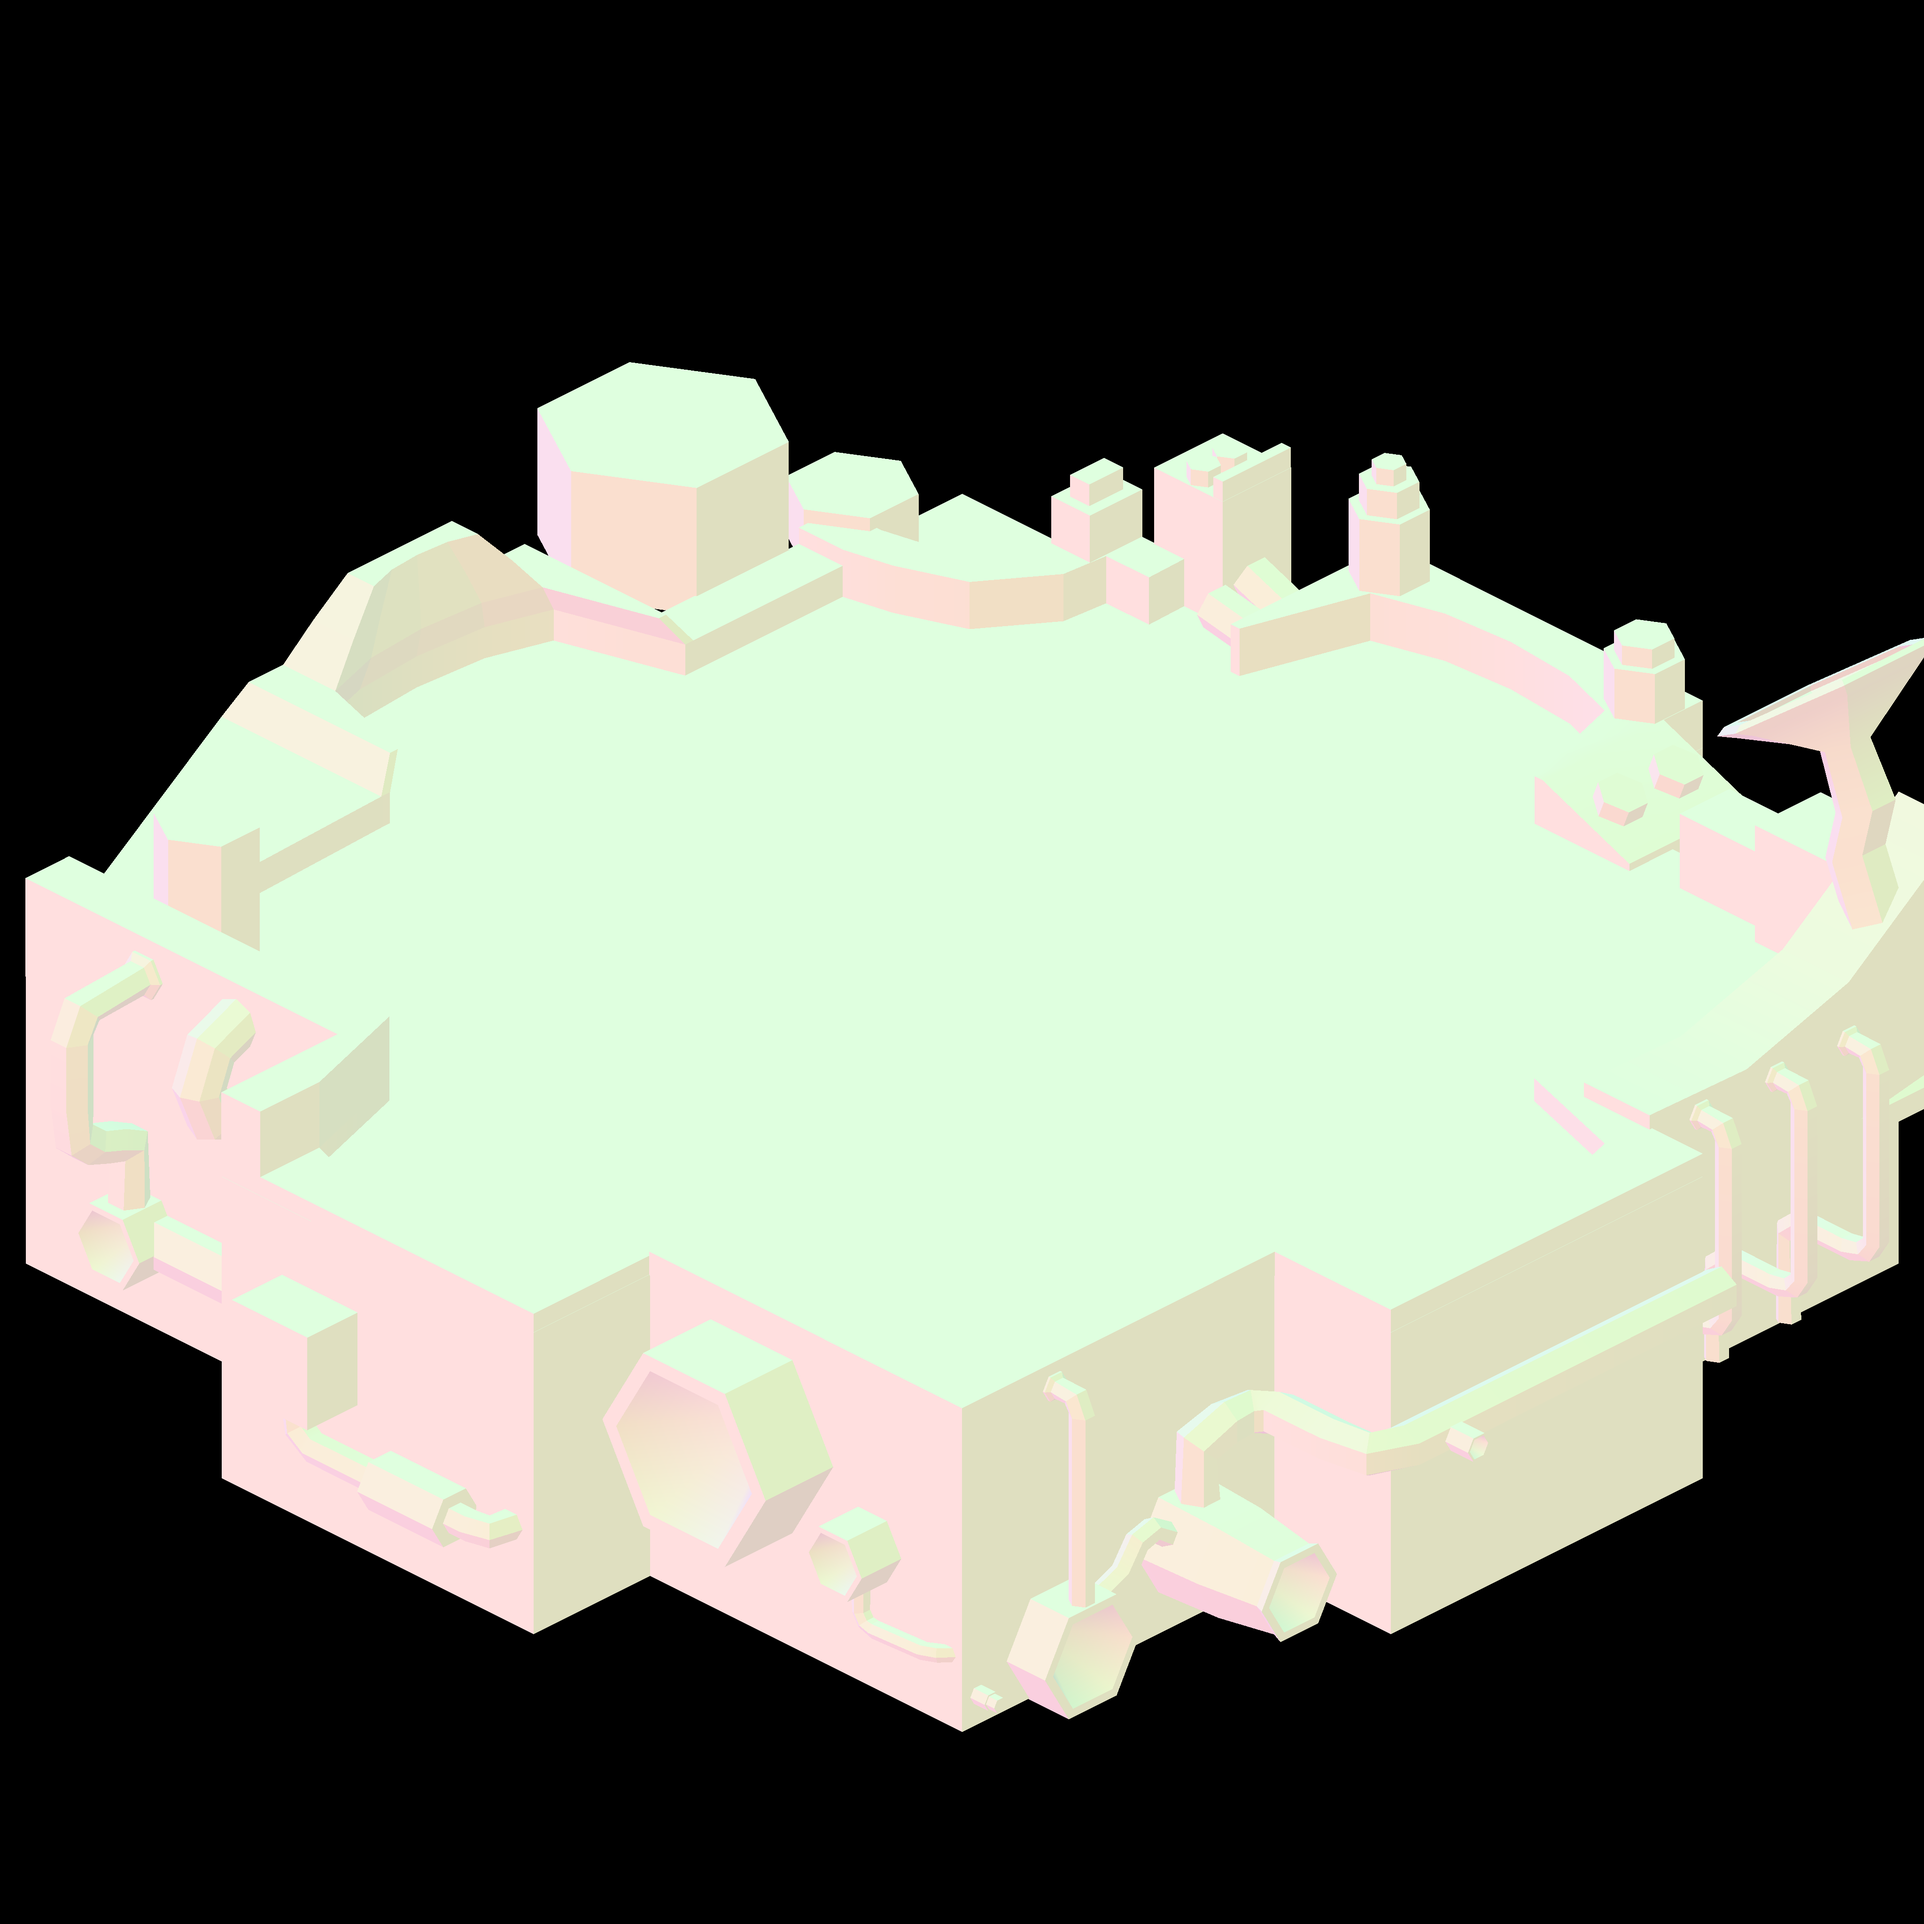
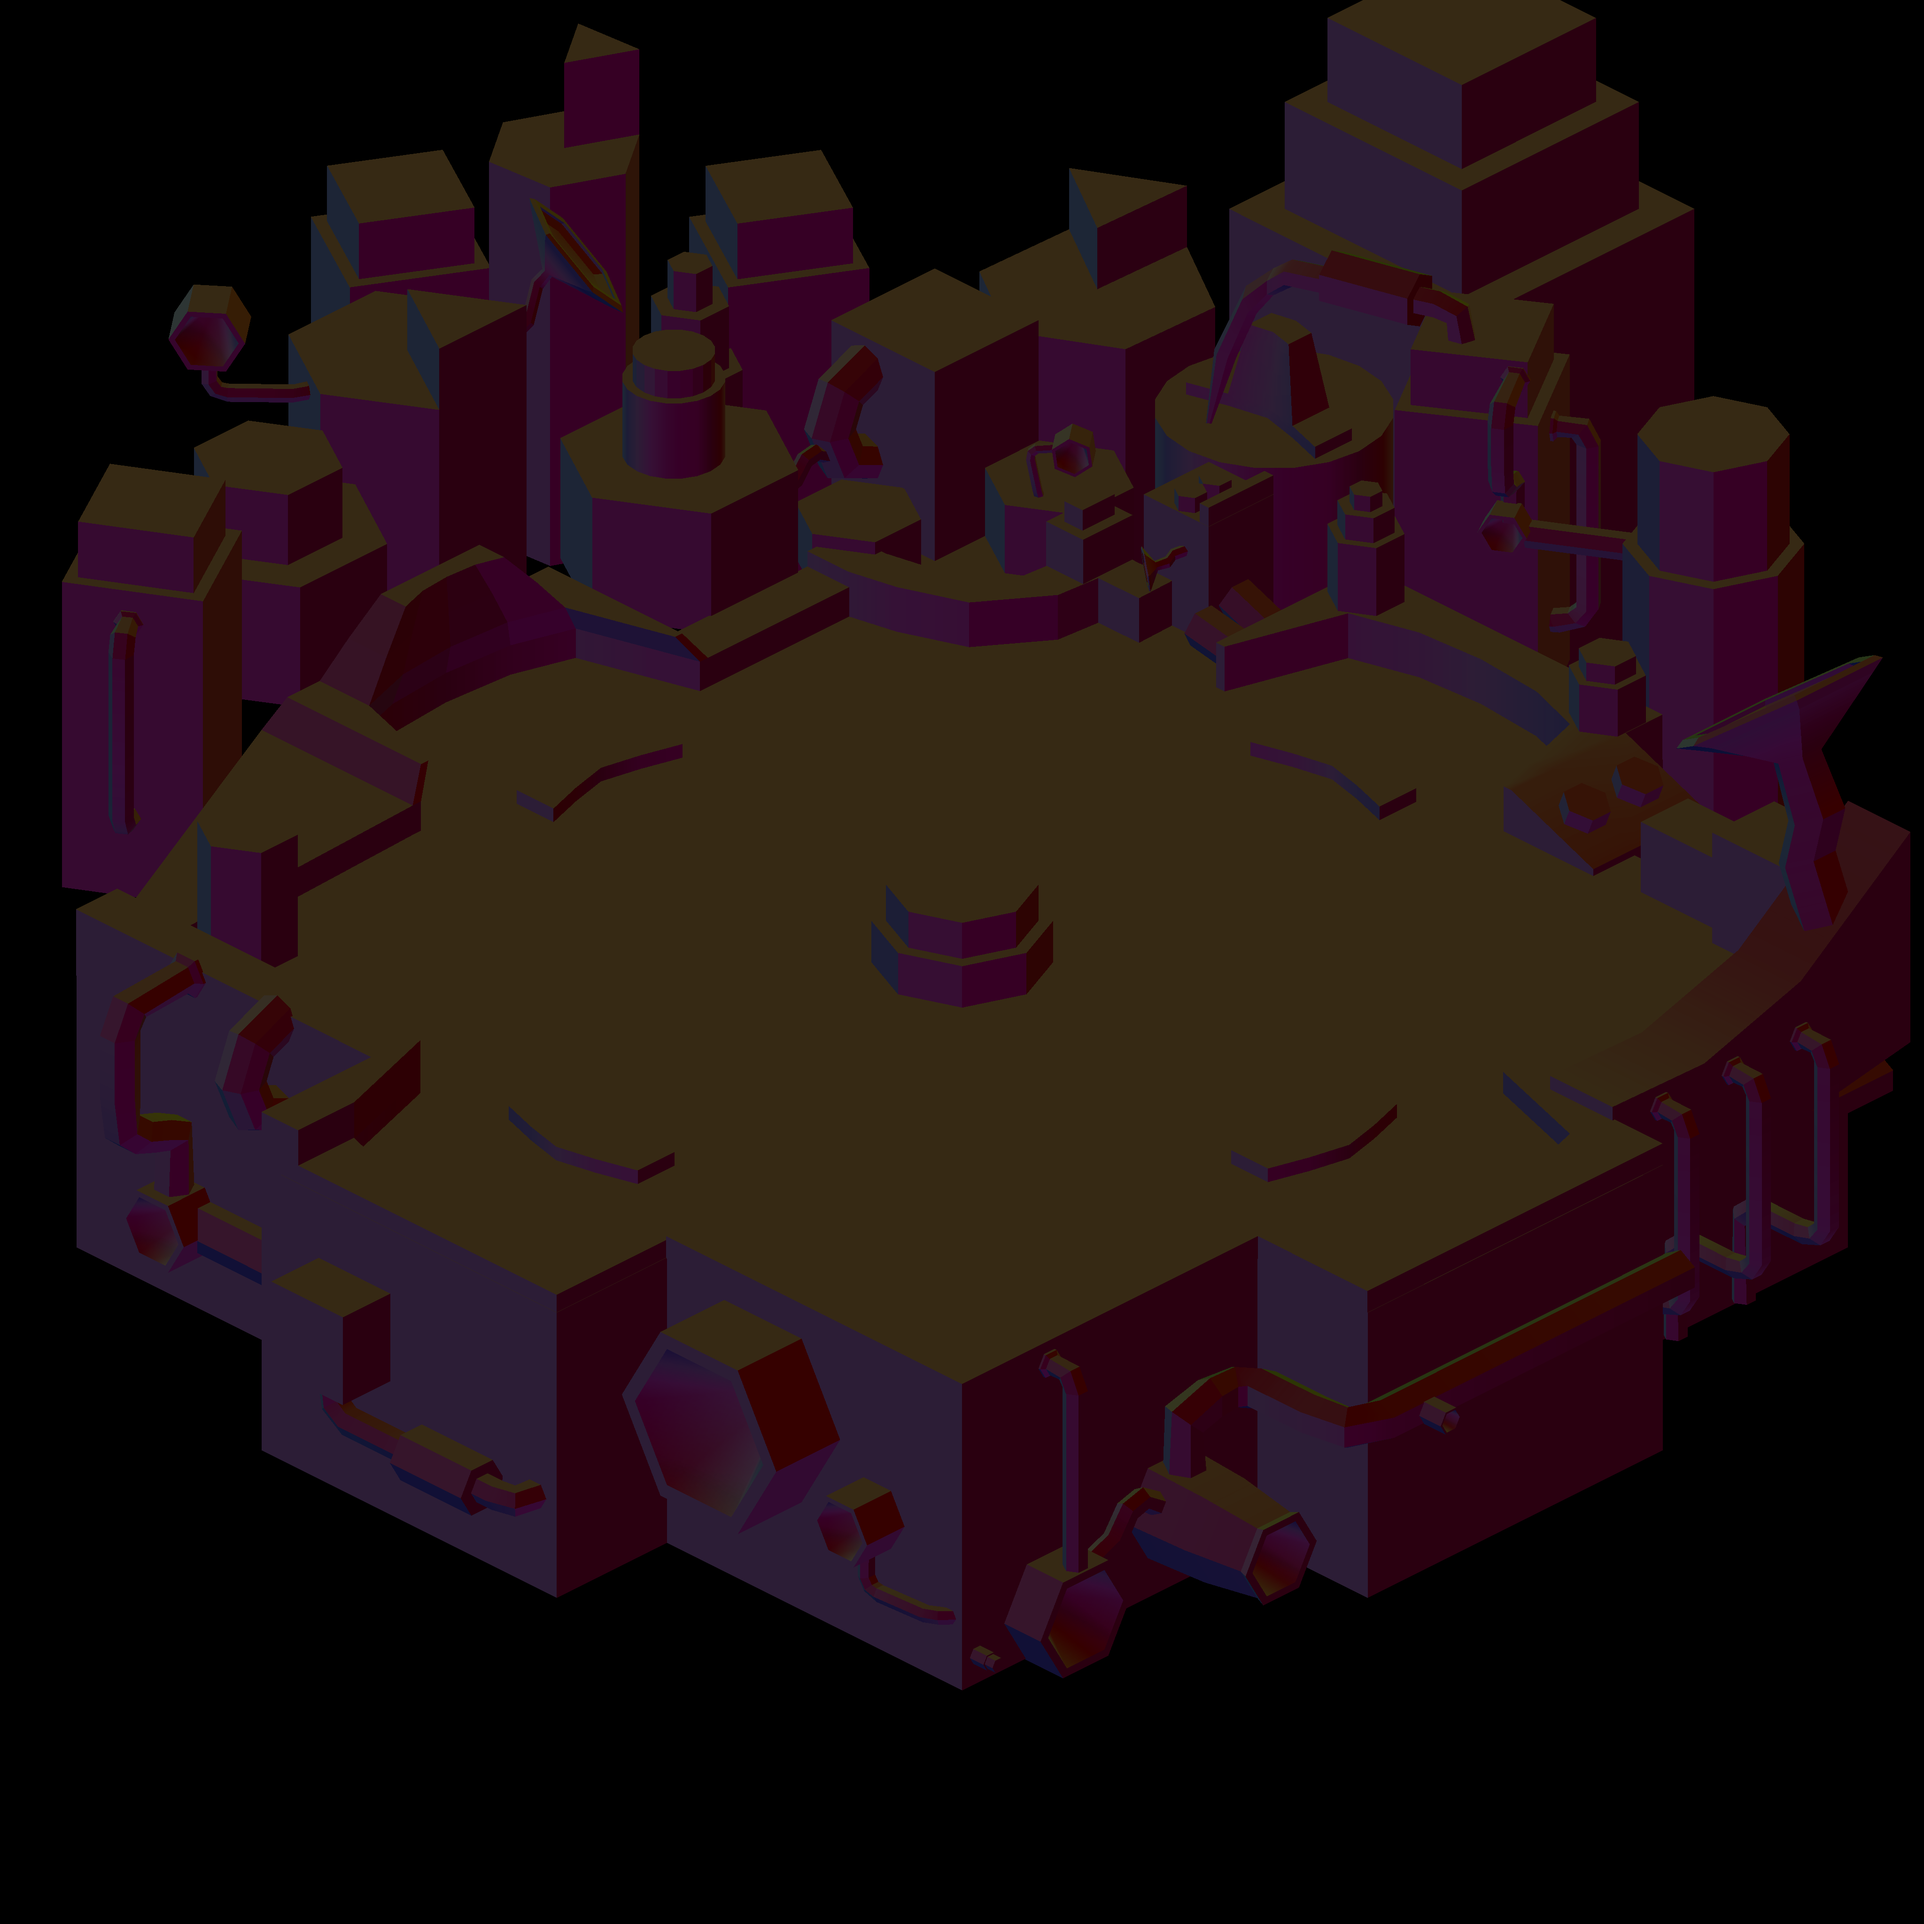
New Map overlay and better level stuff.

diff --git a/Code/MischiefFramework/MischiefFramework/WorldX/Stage/Level.cs b/Code/MischiefFramework/MischiefFramework/WorldX/Stage/Level.cs
@@ -10,6 +10,7 @@ using Microsoft.Xna.Framework.Graphics;
 using MischiefFramework.Cache;
 using FarseerPhysics.Dynamics;
 using FarseerPhysics.Factories;
+using FarseerPhysics.Common;
 
 namespace MischiefFramework.WorldX.Stage {
     internal class Level : IOpaque {
@@ -17,18 +18,21 @@ namespace MischiefFramework.WorldX.Stage {
         private Effect fx;
         private Texture tex;
 
+        private int TOTAL_WALLS = 8; //Convex stuff..?
+        private Body[] walls;
+
         public Level(World world) {
             tex = ResourceManager.LoadAsset<Texture2D>("Meshes/Levels/overlay");
 
             fx = ResourceManager.LoadAsset<Effect>("Shaders/GroundShader");
 
             visuals = ResourceManager.LoadAsset<Model>("Meshes/Levels/Level");
-            //MeshHelper.ChangeEffectUsedByModel(visuals, fx, false);
-            MeshHelper.ChangeEffectUsedByModel(visuals, Renderer.Effect3D);
+            MeshHelper.ChangeEffectUsedByModel(visuals, fx, false);
+            //MeshHelper.ChangeEffectUsedByModel(visuals, Renderer.Effect3D);
 
             Matrix position = Matrix.Identity;
 
-            Camera c = new Camera(35, 35);
+            Camera c = new Camera(37, 37);
             c.LookAt = Vector3.Zero;
             c.Position.X = 6 * 0.612f + c.LookAt.X;
             c.Position.Y = 6 * 0.500f + c.LookAt.Y;
@@ -39,11 +43,50 @@ namespace MischiefFramework.WorldX.Stage {
             fx.Parameters["TextureEnabled"].SetValue(true);
             fx.Parameters["CameraViewProjection"].SetValue(c.ViewProjection);
 
-            BodyFactory.CreateRectangle(world, 26, 2, 0, new Vector2(0, 12));
-            BodyFactory.CreateRectangle(world, 26, 2, 0, new Vector2(0,-12));
-            BodyFactory.CreateRectangle(world, 2, 26, 0, new Vector2(12, 0));
-            BodyFactory.CreateRectangle(world, 2, 26, 0, new Vector2(-12, 0));
+            //Outside walls
+            BodyFactory.CreateRectangle(world, 8, 2, 0, new Vector2(8, 12));
+            BodyFactory.CreateRectangle(world, 8, 2, 0, new Vector2(8, -12));
+            BodyFactory.CreateRectangle(world, 8, 2, 0, new Vector2(-8, 12));
+            BodyFactory.CreateRectangle(world, 8, 2, 0, new Vector2(-8,-12));
+            BodyFactory.CreateRectangle(world, 2, 8, 0, new Vector2(12, 8));
+            BodyFactory.CreateRectangle(world, 2, 8, 0, new Vector2(-12, 8));
+            BodyFactory.CreateRectangle(world, 2, 8, 0, new Vector2(12, -8));
+            BodyFactory.CreateRectangle(world, 2, 8, 0, new Vector2(-12, -8));
+
+            //Base backs
+            BodyFactory.CreateRectangle(world, 8, 2, 0, new Vector2(0, 14));
+            BodyFactory.CreateRectangle(world, 8, 2, 0, new Vector2(0,-14));
+            BodyFactory.CreateRectangle(world, 2, 8, 0, new Vector2( 14,0));
+            BodyFactory.CreateRectangle(world, 2, 8, 0, new Vector2(-14,0));
+
+            //Center piece...
             BodyFactory.CreateCircle(world, 2, 0);
+
+            //Inner walls
+            walls = new Body[TOTAL_WALLS];
+
+            Vertices verts0 = new Vertices();
+            verts0.Add(new Vector2( 0.0f, 0.0f));
+            verts0.Add(new Vector2( 2.0f,-1.0f));
+            verts0.Add(new Vector2( 2.0f, 0.0f));
+            verts0.Add(new Vector2( 0.0f, 1.0f));
+
+            Vertices verts1 = new Vertices();
+            verts1.Add(new Vector2(0.0f, 0.0f));
+            verts1.Add(new Vector2(0.0f, 1.0f));
+            verts1.Add(new Vector2(-2.0f, 0.0f));
+            verts1.Add(new Vector2(-2.0f, -1.0f));
+
+            for (int i = 0; i < 4; i++) {
+                walls[i * 2 + 0] = BodyFactory.CreatePolygon(world, verts0, 0.0f);
+                walls[i * 2 + 1] = BodyFactory.CreatePolygon(world, verts1, 0.0f);
+
+                walls[i * 2 + 0].Position = new Vector2((float)Math.Cos(Math.PI / 2 * i) * 10, (float)Math.Sin(Math.PI / 2 * i) * 10);
+                walls[i * 2 + 1].Position = walls[i * 2 + 0].Position;
+
+                walls[i * 2 + 0].Rotation = (float)Math.PI / 2 * (i-1);
+                walls[i * 2 + 1].Rotation = walls[i * 2 + 0].Rotation;
+            }
 
             Renderer.Add(this);
         }
